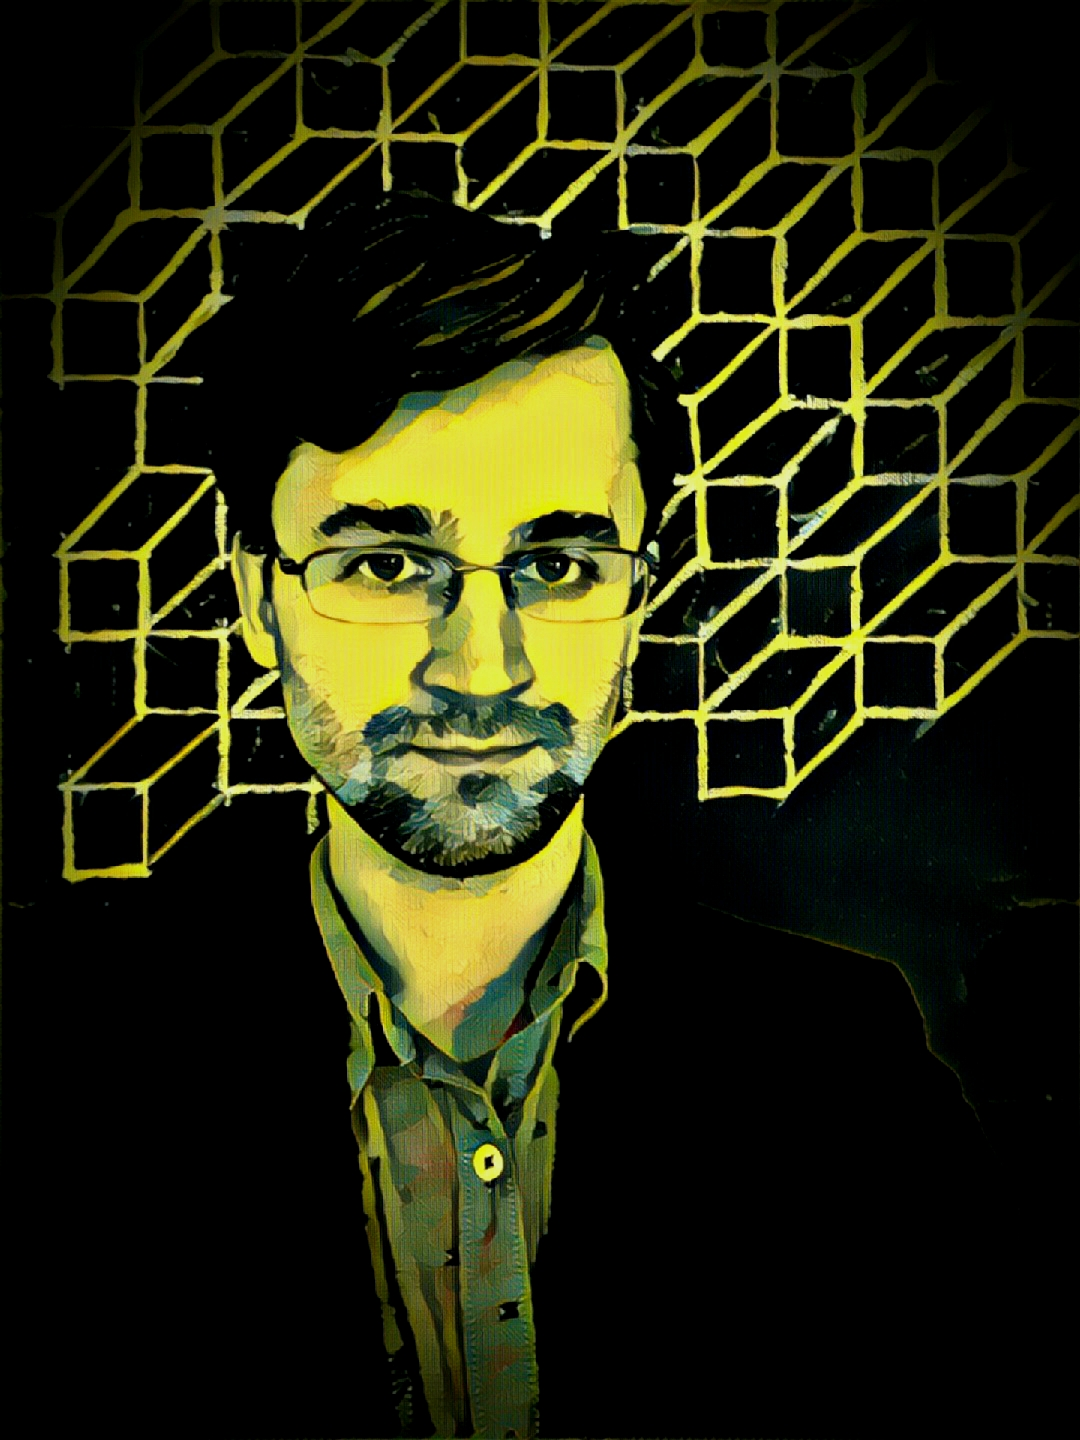
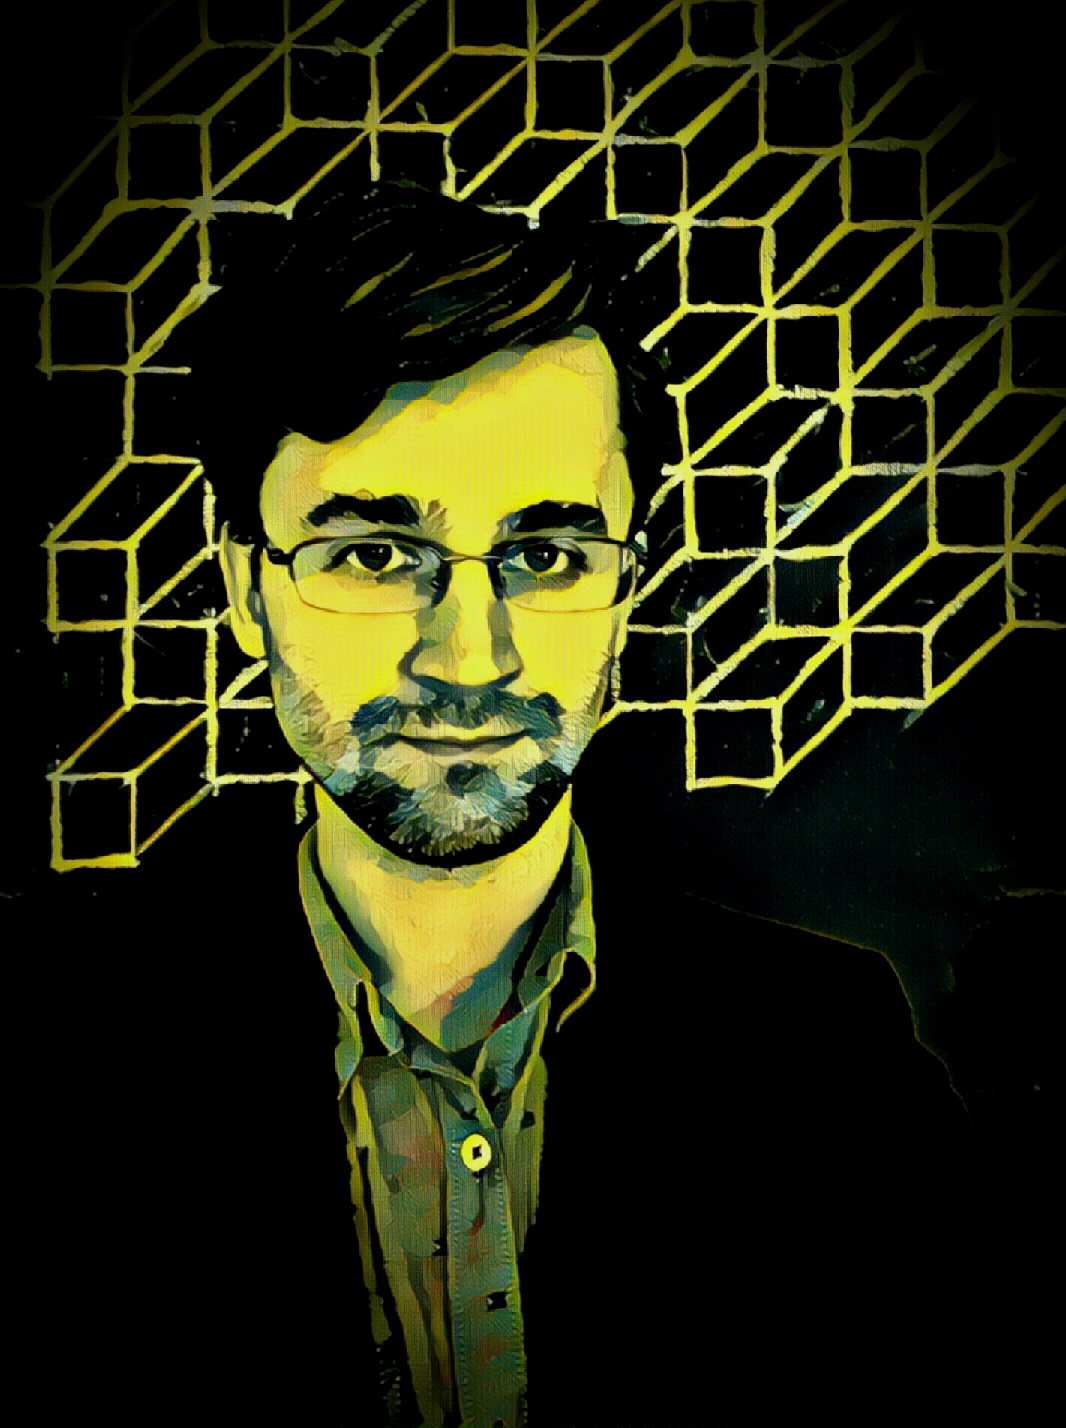
updated photo and color palette

Changed region(s): [[0.031, 0.0, 1.0, 1.0]]

diff --git a/css/style.css b/css/style.css
@@ -2,11 +2,11 @@ body {
     background-color: #05070C;
     margin: 20px;
     font-family: 'VT323', sans-serif;
-    color: #CDC590;
+    color: #C3C145;
 }
 
 .glyphicon{
-  color: #CDC590;
+  color: #C3C145;
 }
 
 .col-8{
@@ -18,6 +18,7 @@ body {
 #jaPhoto {
     max-width: 100%;
     height: auto;
+	
     padding: 50px 25px 0px 0px;
 }
 
@@ -38,11 +39,11 @@ h4{
 }
 
 a{
-  color: #CDC590;
+  color: #C3C145;
 }
 
 .fa-linkedin{
-  color: #CDC590;
+  color:#C3C145;
 }
 
 

diff --git a/index.html b/index.html
@@ -18,7 +18,7 @@
   <div class="container">
   <div class="row">
     <div class="col-4">
-      <img id="jaPhoto" src="http://adamgolubowski.github.io/ag/ja.jpg">
+      <img id="jaPhoto" src="ag/ja.jpg">
     </div>
     <div class="col-8">
       <h1>Adam Gołubowski</h1>
